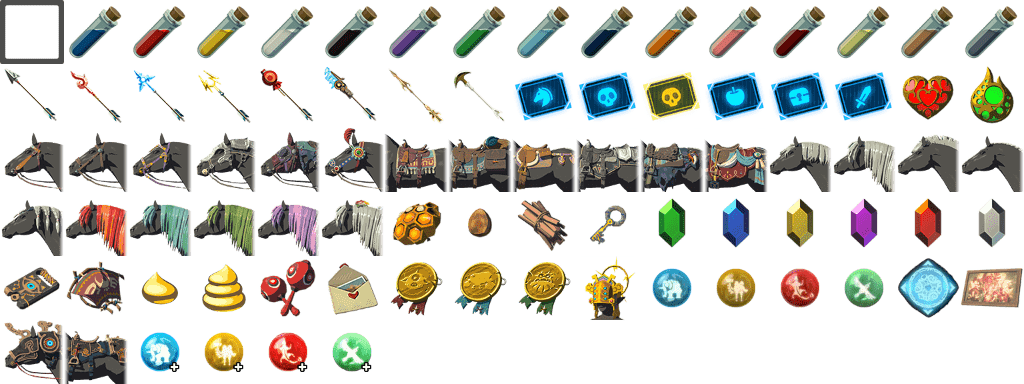
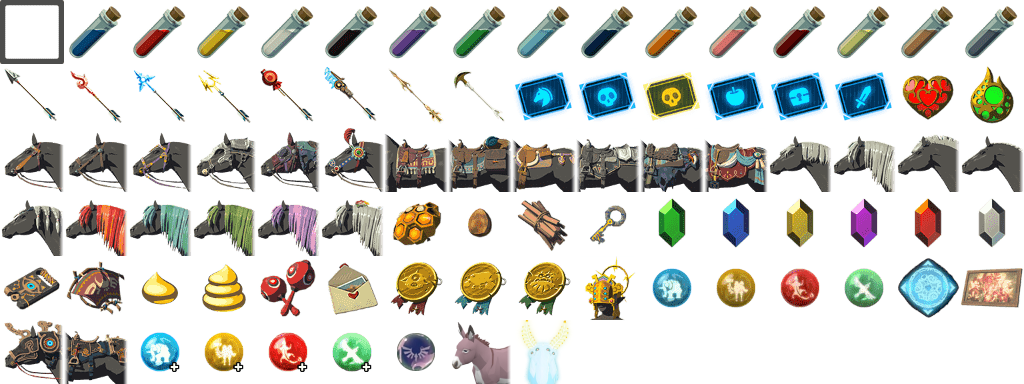
### 增加icon - 试练通过之证 - 驴 - 山林霸主 [山神]

Changed region(s): [[0.375, 0.8438, 0.5625, 1.0]]

diff --git a/zelda-botw/js/zelda-botw.icons.js b/zelda-botw/js/zelda-botw.icons.js
@@ -42,7 +42,7 @@ var BOTW_Icons=(function(){
 
 		Other:['_none','Dye01','Dye02','Dye03','Dye04','Dye05','Dye06','Dye07','Dye08','Dye09','Dye10','Dye11','Dye12','Dye13','Dye14','Dye15','NormalArrow','FireArrow','IceArrow','ElectricArrow','BombArrow_A','AncientArrow','arrow_light','arrow_unknown','PictureBook00','PictureBook01','PictureBook02','PictureBook03','PictureBook04','PictureBook05','Obj_HeartUtuwa_A_01','Obj_StaminaUtuwa_A_01','GameRomHorseReins_00','GameRomHorseReins_01','GameRomHorseReins_02','GameRomHorseReins_03','GameRomHorseReins_04','GameRomHorseReins_05','GameRomHorseSaddle_00','GameRomHorseSaddle_01','GameRomHorseSaddle_02','GameRomHorseSaddle_03','GameRomHorseSaddle_04','GameRomHorseSaddle_05','Horse_Link_Mane','Horse_Link_Mane_01','Horse_Link_Mane_02','Horse_Link_Mane_03','Horse_Link_Mane_04','Horse_Link_Mane_05','Horse_Link_Mane_06','Horse_Link_Mane_07','Horse_Link_Mane_08','Horse_Link_Mane_09','BeeHome','Item_Boiled_01','Obj_FireWoodBundle','KeySmall','PutRupee','PutRupee_Blue','PutRupee_Gold','PutRupee_Purple','PutRupee_Red','PutRupee_Silver','Obj_DRStone_Get','PlayerStole2','Obj_KorokNuts','Obj_ProofKorok','Obj_Maracas','Obj_ProofBook','Obj_ProofGiantKiller','Obj_ProofGolemKiller','Obj_ProofSandwormKiller','Obj_Armor_115_Head','Obj_HeroSoul_Zora','Obj_HeroSoul_Gerudo','Obj_HeroSoul_Goron','Obj_HeroSoul_Rito',
 		'Obj_WarpDLC',
-		'Get_TwnObj_DLC_MemorialPicture_A_01','GameRomHorseReins_10','GameRomHorseSaddle_10','Obj_DLC_HeroSoul_Zora','Obj_DLC_HeroSoul_Gerudo','Obj_DLC_HeroSoul_Goron','Obj_DLC_HeroSoul_Rito'
+		'Get_TwnObj_DLC_MemorialPicture_A_01','GameRomHorseReins_10','GameRomHorseSaddle_10','Obj_DLC_HeroSoul_Zora','Obj_DLC_HeroSoul_Gerudo','Obj_DLC_HeroSoul_Goron','Obj_DLC_HeroSoul_Rito','Obj_DungeonClearSeal','GameRomHorse00S','GameRomHorseNushi'
 		]
 	}
 	var REPEAT_ARMOR_ICONS_1=['002','003','004','015','035','039','060','061','007','062','063','064','040','065','066','067','036','071','072','073','037','074','075','076','042','077','078','079','083','084','085','086','087','088','089','090','095','096','097','098','099','100','101','102','117','118','119','120','121','122','123','124','125','126','127','128','129','130','131','132','133','134','135','136','137','138','139','140','103','104','105','106','111','112','113','114','152','153','154','155','148','149','150','151','156','157','158','159','201','202','203','204','206','207','208','209','211','212','213','214','216','217','218','219','221','222','223','224','226','227','228','229','231','232','233','234','186','187','188','189','190','191','192','193','194','195','196','197','198','199','168','169'];
